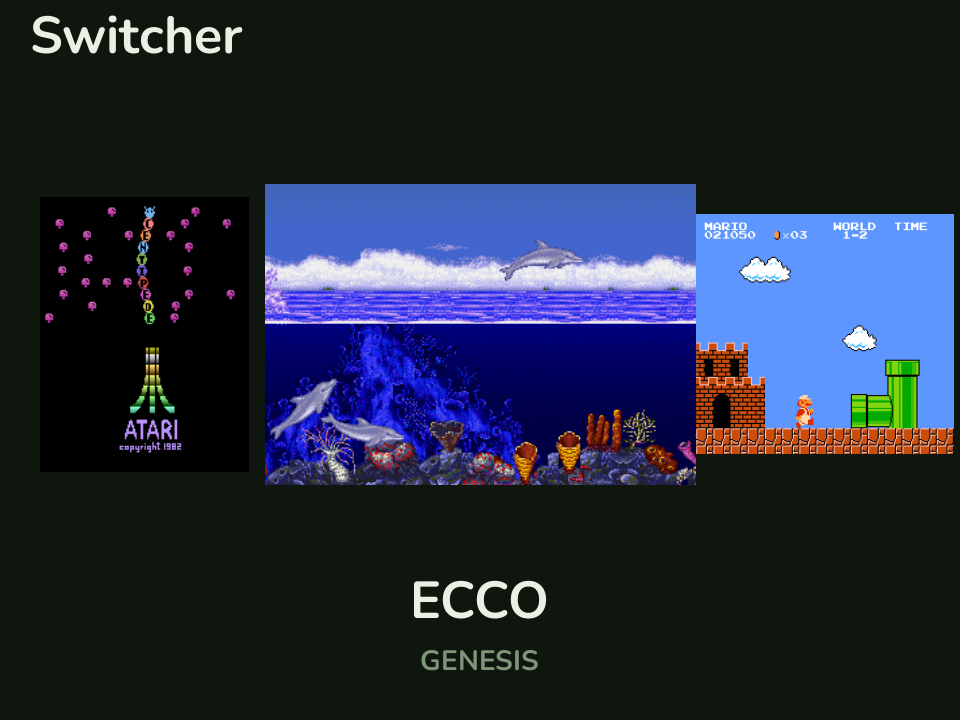
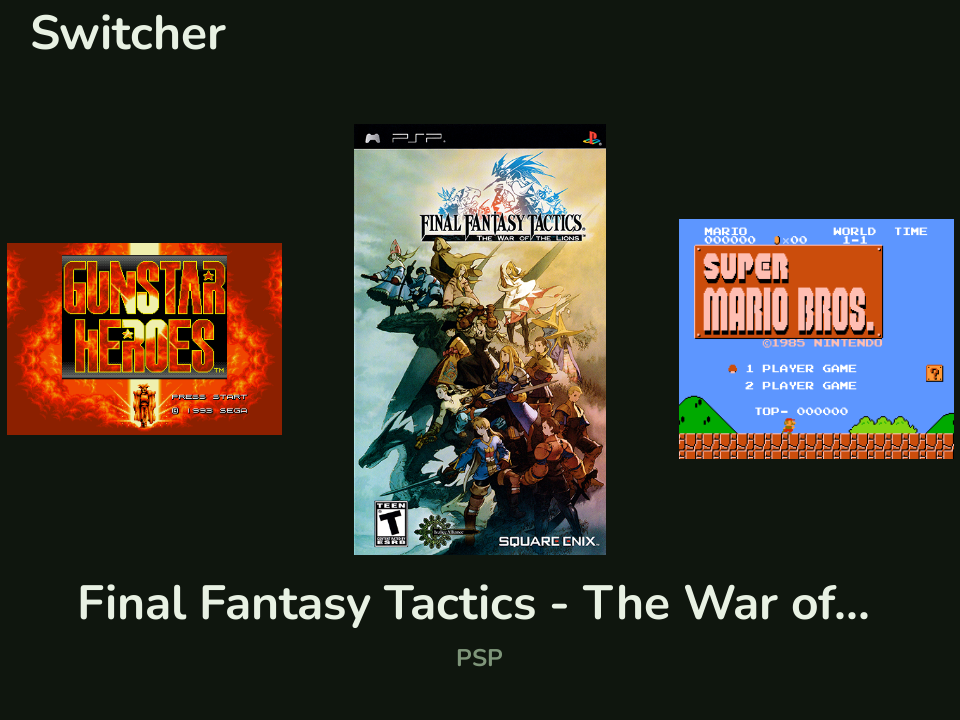
Rebuild landing hero, refresh switcher shot, save generator
Regenerate the animated MLP1 hero on current launcher screens (hints off,
Leaf green theme): the cycle now runs Recents, Favorites, Games, a drilled-in
game list, Apps, the game switcher, Disco Boy now-playing, and the reorganized
Settings list - replacing the stale frame that still showed System Update under
Settings. Slower ~20s loop, a brighter resting halo around the device, and a
toned-down on-screen leaf glow.

Refresh the features-page switcher screenshot to the current coverflow (Final
Fantasy Tactics centered) and fix the alt text.

Save the generator as scripts/make-hero.py (it had been an unsaved inline
script): all the look knobs - pace, halo baseline, leaf-glow donut/bloom - are
tunable constants at the top, so the hero can be rebuilt after future UI work.

diff --git a/scripts/make-hero.py b/scripts/make-hero.py
@@ -1,0 +1,223 @@
+#!/usr/bin/env python3
+"""Build the animated MLP1 hero for the leaf-docs landing page.
+
+Composites live launcher screenshots into the device photo's screen, wraps the
+device in a breathing green halo, and plays a boot splash (leaf logo + glow +
+LED stick-ring) that fades into a cycle of UI screens. Output is a looped,
+alpha-transparent WebP served raw from public/ (Astro's optimizer is bypassed
+for animated images).
+
+Screens are captured off the device with hints OFF (see the leaf-docs-hero
+recipe). Re-run after UI changes; pass --preview to only dump key still frames.
+"""
+import argparse
+import numpy as np
+from PIL import Image, ImageChops, ImageDraw, ImageFilter
+
+ROOT = "/Users/htpc/Projects/miniloong-cfw"
+DEVICE_IMG = f"{ROOT}/miniloong.png"
+LEAF_IMG = f"{ROOT}/leaf-docs/src/assets/leaf.png"
+SHOTS_DIR = "/tmp/hero"
+OUT_WEBP = "/tmp/hero/hero-mlp1.webp"
+
+# Screen rect inside the device photo (left, top, right, bottom).
+SCR = (384, 61, 1115, 619)
+PAD = 330                      # transparent margin so the halo fully fades
+OUT_W = 900                    # final downscaled width
+FRAME_MS = 160                 # ~6 fps (slower, more readable loop)
+
+SCREEN_BG = (15, 22, 14)       # dark-green page/screen background
+HALO_GREEN = (140, 220, 120)   # external device halo + leaf glow
+RING_GREEN = (150, 255, 130)   # LED stick-ring
+RING_CENTER = (262, 433)       # device-coord centre of the analog stick
+RING_RX, RING_RY = 80, 72
+
+GI_BASE = 0.48                 # external-halo intensity during the screen cycle
+                               # (and the breath's low point) — raise to brighten
+                               # the resting glow around the device.
+LEAF_GLOW_GAIN = 0.42          # overall on-screen leaf-glow brightness.
+DONUT_W = 1.2                  # inner glow hugging the leaf (the "middle").
+BLOOM_W = 0.85                 # wide outer bloom.
+
+# Screen cycle (order shown in the loop). 8 frames, hints off.
+SCREENS = [
+    "recents", "favorites", "games", "gamelist",
+    "apps", "switcher", "discoboy", "settings",
+]
+HOLD_FRAMES = 9                # how long each screen sits still
+TRANS_FRAMES = 3              # fade-through-bg frames between screens
+BOOT_SEG = 8                  # frames per boot-breath segment (x3 segments)
+
+# ── Geometry ────────────────────────────────────────────────────────────────
+dev = Image.open(DEVICE_IMG).convert("RGBA")
+DW, DH = dev.size
+SCR_W, SCR_H = SCR[2] - SCR[0], SCR[3] - SCR[1]
+CW, CH = DW + 2 * PAD, DH + 2 * PAD
+DEV_OFF = (PAD, PAD)
+SCR_OFF = (PAD + SCR[0], PAD + SCR[1])
+BG_SCR = Image.new("RGBA", (SCR_W, SCR_H), (*SCREEN_BG, 255))
+
+
+def scale_alpha(img, k):
+    """Return img with its alpha channel multiplied by k (0..1)."""
+    if k >= 0.999:
+        return img.copy()
+    r, g, b, a = img.split()
+    a = a.point(lambda v: int(v * k))
+    return Image.merge("RGBA", (r, g, b, a))
+
+
+def smoothstep(t):
+    return t * t * (3.0 - 2.0 * t)
+
+
+# ── Pre-built static layers ─────────────────────────────────────────────────
+def build_external_halo():
+    """Device silhouette filled green, three blurred passes, on the full canvas."""
+    shape = Image.new("RGBA", (CW, CH), (0, 0, 0, 0))
+    green_dev = Image.new("RGBA", dev.size, (0, 0, 0, 0))
+    green_dev.paste((*HALO_GREEN, 255), (0, 0), dev.split()[3])
+    shape.paste(green_dev, DEV_OFF, green_dev)
+    halo = Image.new("RGBA", (CW, CH), (0, 0, 0, 0))
+    for radius, weight in [(120, 0.55), (64, 0.8), (30, 0.7)]:
+        b = shape.filter(ImageFilter.GaussianBlur(radius))
+        halo = Image.alpha_composite(halo, scale_alpha(b, weight))
+    return halo
+
+
+def build_ring():
+    ring = Image.new("RGBA", (CW, CH), (0, 0, 0, 0))
+    cx, cy = PAD + RING_CENTER[0], PAD + RING_CENTER[1]
+    ImageDraw.Draw(ring).ellipse(
+        [cx - RING_RX, cy - RING_RY, cx + RING_RX, cy + RING_RY],
+        outline=(*RING_GREEN, 255), width=15)
+    return ring.filter(ImageFilter.GaussianBlur(9))
+
+
+def build_device_layer():
+    layer = Image.new("RGBA", (CW, CH), (0, 0, 0, 0))
+    layer.paste(dev, DEV_OFF, dev)
+    return layer
+
+
+EXT_HALO = build_external_halo()
+RING_LAYER = build_ring()
+DEVICE_LAYER = build_device_layer()
+
+# Leaf logo sized to 0.58 * screen height; glow donut + bloom behind it.
+_leaf = Image.open(LEAF_IMG).convert("RGBA")
+_lh = int(0.58 * SCR_H)
+_lw = int(_leaf.width * _lh / _leaf.height)
+LEAF_S = _leaf.resize((_lw, _lh), Image.LANCZOS)
+_LX, _LY = (SCR_W - _lw) // 2, (SCR_H - _lh) // 2
+_sil = Image.new("L", (SCR_W, SCR_H), 0)
+_sil.paste(LEAF_S.split()[3], (_LX, _LY))
+_donut = ImageChops.subtract(_sil.filter(ImageFilter.GaussianBlur(80)), _sil)
+_bloom = _sil.filter(ImageFilter.GaussianBlur(130))
+_ga = np.clip((np.asarray(_donut, np.float32) * DONUT_W
+               + np.asarray(_bloom, np.float32) * BLOOM_W) * LEAF_GLOW_GAIN,
+              0, 255).astype(np.uint8)
+LEAF_GLOW = Image.new("RGBA", (SCR_W, SCR_H), (*HALO_GREEN, 0))
+LEAF_GLOW.putalpha(Image.fromarray(_ga, "L"))
+
+
+def boot_screen(p):
+    """Boot splash: dark-green bg, breathing green glow (intensity p), leaf logo."""
+    s = Image.new("RGBA", (SCR_W, SCR_H), (*SCREEN_BG, 255))
+    s = Image.alpha_composite(s, scale_alpha(LEAF_GLOW, p))
+    s.paste(LEAF_S, (_LX, _LY), LEAF_S)
+    return s
+
+
+def load_screen(name):
+    img = Image.open(f"{SHOTS_DIR}/{name}.png").convert("RGBA")
+    return img.resize((SCR_W, SCR_H), Image.LANCZOS)
+
+
+SHOTS = {name: load_screen(name) for name in SCREENS}
+
+
+def compose(screen_img, gi, ring_i):
+    """One full frame: halo*gi behind device, screen in the bezel, ring*ring_i on top."""
+    f = scale_alpha(EXT_HALO, gi)
+    f = Image.alpha_composite(f, DEVICE_LAYER)
+    f.paste(screen_img, SCR_OFF)
+    if ring_i > 0.001:
+        f = Image.alpha_composite(f, scale_alpha(RING_LAYER, ring_i))
+    return f.resize((OUT_W, round(CH * OUT_W / CW)), Image.LANCZOS)
+
+
+def gi_of(p):
+    return GI_BASE + (1.0 - GI_BASE) * p
+
+
+def ring_of(p):
+    return 0.15 + 0.85 * p
+
+
+def fade_through(a, b):
+    """Three screen frames that cross through the bg so content never overlaps."""
+    return [Image.blend(a, BG_SCR, 0.6), BG_SCR, Image.blend(BG_SCR, b, 0.6)]
+
+
+# ── Frame timeline ──────────────────────────────────────────────────────────
+def build_timeline():
+    """Yield (screen_img, gi, ring_i) per frame for one loop."""
+    frames = []
+
+    # Boot breathe: one full breath (0->1->0) then a rise (0->1).
+    boot_ps = []
+    for seg in [(0.0, 1.0), (1.0, 0.0), (0.0, 1.0)]:
+        for i in range(BOOT_SEG):
+            t = smoothstep(i / (BOOT_SEG - 1))
+            boot_ps.append(seg[0] + (seg[1] - seg[0]) * t)
+    for p in boot_ps:
+        frames.append((boot_screen(p), gi_of(p), ring_of(p)))
+
+    # Boot -> first screen: fade through bg, ring fades out, halo eases to baseline.
+    a = boot_screen(1.0)
+    for k, scr in enumerate(fade_through(a, SHOTS[SCREENS[0]])):
+        t = (k + 1) / TRANS_FRAMES
+        frames.append((scr, 1.0 + (GI_BASE - 1.0) * t, 1.0 * (1.0 - t)))
+
+    # Screen cycle, with the last transition looping back to the boot splash.
+    for idx, name in enumerate(SCREENS):
+        for _ in range(HOLD_FRAMES):
+            frames.append((SHOTS[name], GI_BASE, 0.0))
+        if idx < len(SCREENS) - 1:
+            for scr in fade_through(SHOTS[name], SHOTS[SCREENS[idx + 1]]):
+                frames.append((scr, GI_BASE, 0.0))
+        else:
+            # Settings -> boot(p=0): ring eases 0 -> ring_of(0) so the loop is seamless.
+            for k, scr in enumerate(fade_through(SHOTS[name], boot_screen(0.0))):
+                t = (k + 1) / TRANS_FRAMES
+                frames.append((scr, GI_BASE, ring_of(0.0) * t))
+    return frames
+
+
+def main():
+    ap = argparse.ArgumentParser()
+    ap.add_argument("--preview", action="store_true",
+                    help="only dump key still frames, skip the WebP encode")
+    args = ap.parse_args()
+
+    # Key still previews for quick geometry/look checks.
+    compose(boot_screen(1.0), gi_of(1.0), ring_of(1.0)).save(f"{SHOTS_DIR}/preview_boot.png")
+    compose(SHOTS["recents"], 0.30, 0.0).save(f"{SHOTS_DIR}/preview_recents.png")
+    compose(SHOTS["switcher"], 0.30, 0.0).save(f"{SHOTS_DIR}/preview_switcher.png")
+    compose(BG_SCR, 0.30, 0.0).save(f"{SHOTS_DIR}/preview_transition.png")
+    print("previews written to", SHOTS_DIR)
+    if args.preview:
+        return
+
+    timeline = build_timeline()
+    imgs = [compose(scr, gi, ring) for (scr, gi, ring) in timeline]
+    imgs[0].save(OUT_WEBP, save_all=True, append_images=imgs[1:],
+                 duration=FRAME_MS, loop=0, quality=74, method=6)
+    import os
+    print(f"wrote {OUT_WEBP}  ({len(imgs)} frames, "
+          f"{os.path.getsize(OUT_WEBP)/1024:.0f} KB, {imgs[0].size[0]}x{imgs[0].size[1]})")
+
+
+if __name__ == "__main__":
+    main()

diff --git a/src/content/docs/guide/features.md b/src/content/docs/guide/features.md
@@ -186,7 +186,7 @@ profile, and **Restore Backup** brings back a previous calibration.
 
 ## Game switcher
 
-![The game switcher carousel showing recent games as cover tiles, ECCO centered](/leaf-docs/screenshot-switcher.png)
+![The game switcher carousel showing recent games as cover tiles, Final Fantasy Tactics centered](/leaf-docs/screenshot-switcher.png)
 
 Press **SELECT** anywhere on the home screen to open the game switcher - a focused
 carousel of your recent games for jumping back in fast.
